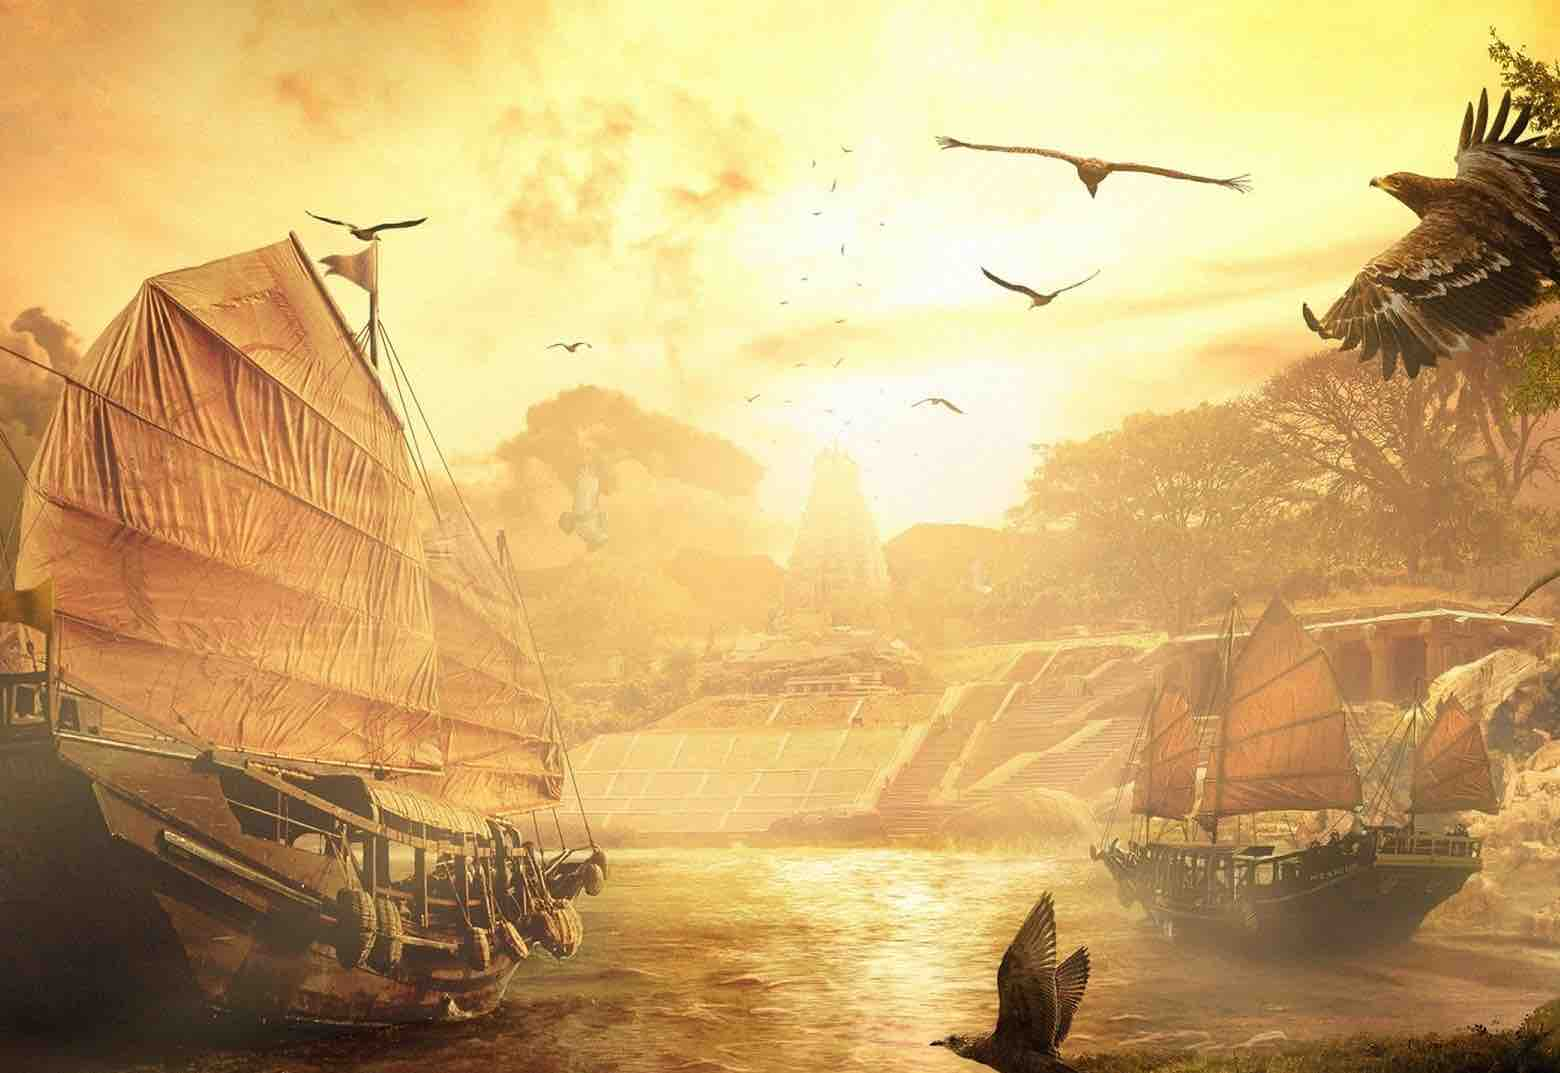
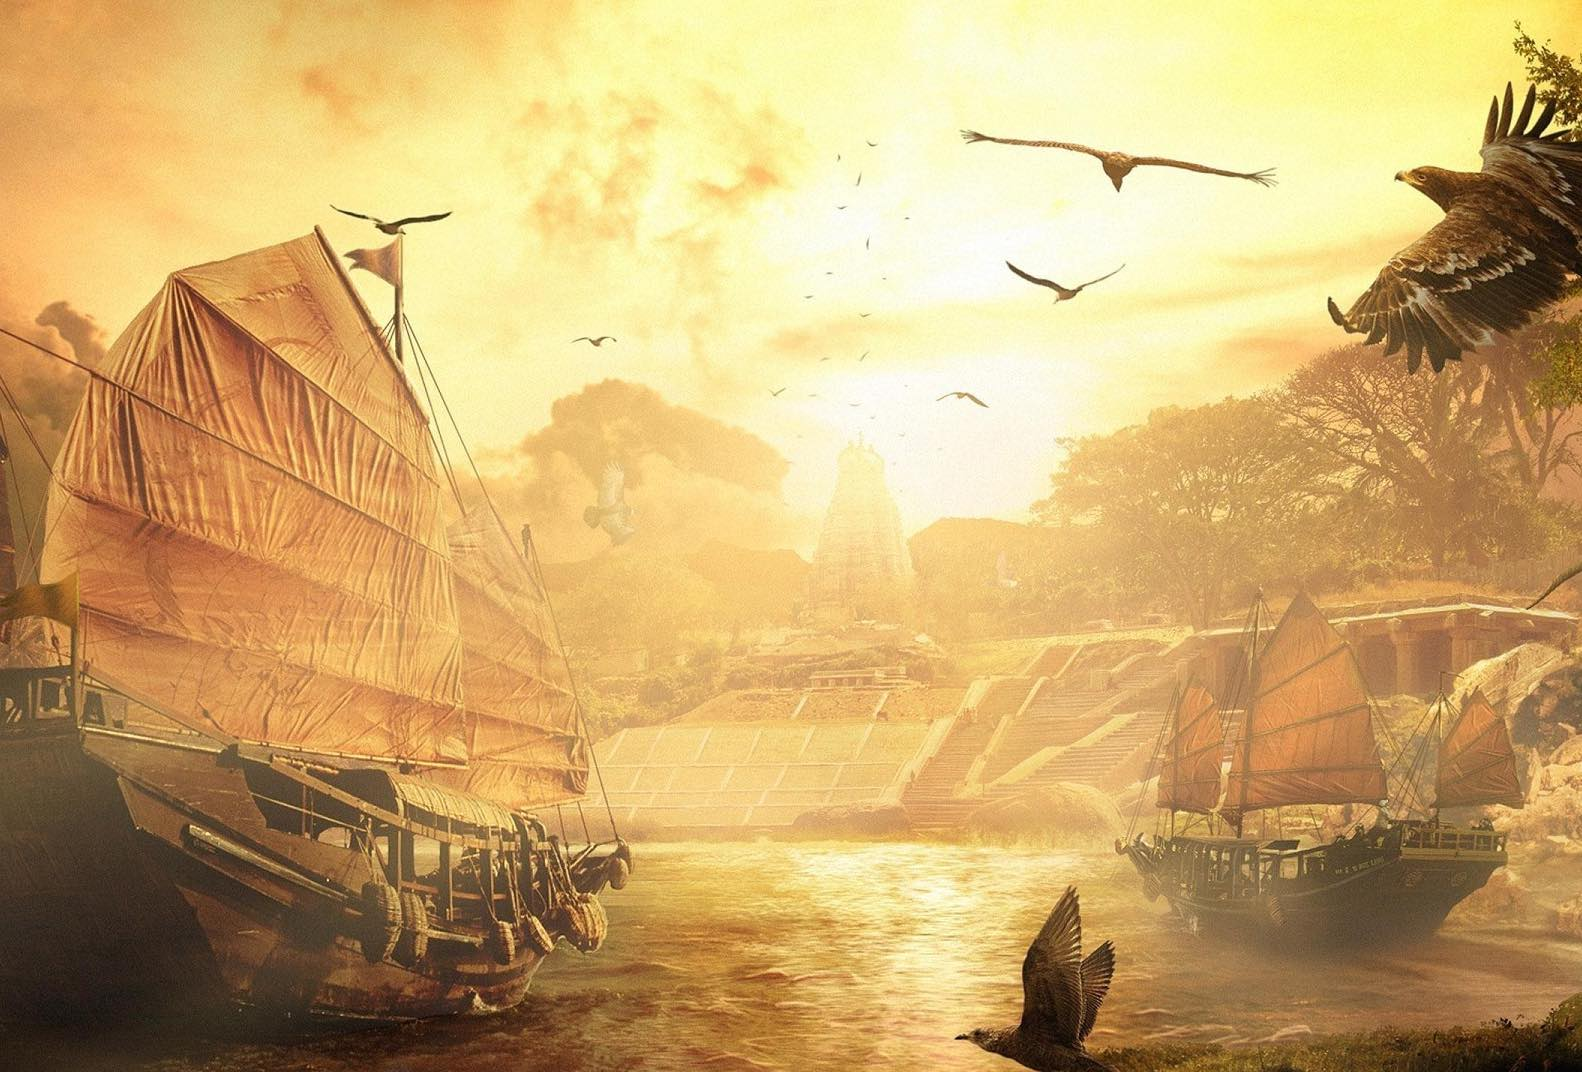
Removed schedule, font/color changes

diff --git a/index.html b/index.html
@@ -52,15 +52,15 @@
                                     <div class="eventSubMenuItem">B Quiz</div>
                                     <div class="eventSubMenuItem">Best Managers</div>
                                     <div class="eventSubMenuItem">Enterpreneurship</div>
-									<div class="eventSubMenuItem">General Management</div>
-									<div class="eventSubMenuItem">Finance</div>
-									<div class="eventSubMenuItem">Human Resources</div>
-									<div class="eventSubMenuItem">Operations</div>
-									<div class="eventSubMenuItem">Marketing</div>
+                  									<div class="eventSubMenuItem">General Management</div>
+                  									<div class="eventSubMenuItem">Finance</div>
+                  									<div class="eventSubMenuItem">Human Resources</div>
+                  									<div class="eventSubMenuItem">Operations</div>
+                  									<div class="eventSubMenuItem">Marketing</div>
                                 </div>
                             </li>
-                            <li class="scroll"><a href="#schedule">Schedule</a>
-                            </li>
+                            <!-- <li class="scroll"><a href="#schedule">Schedule</a>
+                            </li> -->
                             <li class="scroll"><a href="#sponsor">Sponsors</a>
                             </li>
                             <li class="scroll"><a href="#contact">Contact</a>
@@ -90,9 +90,8 @@
                         <h4>Presents</h4>
                          <img class="ximera-logo" src="images/ximera-logo.png" alt="XIMERA 2015">
                       <div class="registrationInfo">
-                        <h4>6
-                            <sup>th</sup>
-                            <sub>to</sub> 7 <sup>th</sup> Nov</h4>
+                        <h2>6<sup>th</sup>
+                            <sub> & </sub>7<sup>th </sup>Nov</h2>
                         <a href="https://bluestreaklabs.typeform.com/to/KQUJof" target="_blank">Registration<i class="fa fa-angle-right"></i></a>
                         </div>
                     </div>
@@ -110,7 +109,7 @@
         </div>
         </div>
     </section>
-    <section id="schedule" class="text-center section-padding" id="responsive">
+    <!-- <section id="schedule" class="text-center section-padding" id="responsive">
         <div class="container-schedule container wow animated fadeInDown animated" data-wow-duration="1s" data-wow-delay="1s">
             <div class="row">
                 <div class="align-center wow animated fadeInLeft">
@@ -187,7 +186,6 @@
                                 <hr>
                             </div>
                         </div>
-                        <!--CONTAINER ENDS-->
                     </section>
                     <section id="section-2">
                       <div class="container">
@@ -249,11 +247,9 @@
                               <hr>
                           </div>
                       </div>
-                <!-- /content -->
             </div>
-            <!-- /tabs -->
         </div>
-    </section>
+    </section> -->
     <section id="sponsor">
         <div id="sponsers" class="ignite-cta text-center section-padding">
             <div class="container">

diff --git a/js/main.js b/js/main.js
@@ -1,39 +1,38 @@
 jQuery(function($) {
-    'use strict',
+  'use strict',
 
-   	new CBPFWTabs( document.getElementById( 'tabs-ui' ) );
-    //Scroll Menu
+  // 	new CBPFWTabs( document.getElementById( 'tabs-ui' ) );
+  //Scroll Menu
 
-    function menuToggle() {
-        var windowWidth = $(window).width();
+  (function menuToggle() {
+    var windowWidth = $(window).width();
 
-        if (windowWidth > 767) {
-            $(window).on('scroll', function() {
-                if ($(window).scrollTop() > 405) {
-                    $('.main-nav').addClass('fixed-menu animated slideInDown');
-                } else {
-                    $('.main-nav').removeClass('fixed-menu animated slideInDown');
-                }
-            });
+    if (windowWidth > 767) {
+      $(window).on('scroll', function() {
+        if ($(window).scrollTop() > 405) {
+          $('.main-nav').addClass('fixed-menu animated slideInDown');
         } else {
-            $('.main-nav').addClass('fixed-menu animated slideInDown');
+          $('.main-nav').removeClass(
+            'fixed-menu animated slideInDown');
         }
+      });
+    } else {
+      $('.main-nav').addClass('fixed-menu animated slideInDown');
     }
+  })();
 
+  $(window).resize(function() {
     menuToggle();
+  });
 
-    $(window).resize(function() {
-        menuToggle();
-    });
-
-    $('.main-nav ul').onePageNav({
-        currentClass: 'active',
-        changeHash: false,
-        scrollSpeed: 900,
-        scrollOffset: 0,
-        scrollThreshold: 0.3,
-        filter: ':not(.no-scroll)'
-    });
+  $('.main-nav ul').onePageNav({
+    currentClass: 'active',
+    changeHash: false,
+    scrollSpeed: 900,
+    scrollOffset: 0,
+    scrollThreshold: 0.3,
+    filter: ':not(.no-scroll)'
+  });
 
 });
 
@@ -41,31 +40,31 @@ jQuery(function($) {
 // Google Map Customization
 (function() {
 
-    var map;
+  var map;
 
-    map = new GMaps({
-        el: '#gmap',
-        lat: 12.8483482,
-        lng: 77.674908,
-        scrollwheel: false,
-        zoom: 16,
-        zoomControl: false,
-        panControl: false,
-        streetViewControl: false,
-        mapTypeControl: false,
-        overviewMapControl: false,
-        clickable: false
-    });
+  map = new GMaps({
+    el: '#gmap',
+    lat: 12.8483482,
+    lng: 77.674908,
+    scrollwheel: false,
+    zoom: 16,
+    zoomControl: false,
+    panControl: false,
+    streetViewControl: false,
+    mapTypeControl: false,
+    overviewMapControl: false,
+    clickable: false
+  });
 
-    var image = 'images/pin.png';
-    map.addMarker({
-        lat: 12.8483482,
-        lng: 77.674908,
-        icon: image,
-        animation: google.maps.Animation.DROP,
-        verticalAlign: 'bottom',
-        horizontalAlign: 'center',
-        backgroundColor: '#C34C39',
-    });
+  var image = 'images/pin.png';
+  map.addMarker({
+    lat: 12.8483482,
+    lng: 77.674908,
+    icon: image,
+    animation: google.maps.Animation.DROP,
+    verticalAlign: 'bottom',
+    horizontalAlign: 'center',
+    backgroundColor: '#C34C39',
+  });
 
 }());

diff --git a/css/main.css b/css/main.css
@@ -190,15 +190,10 @@ sub{
 }
 #main-slider img {
     width: 100%;
-    -webkit-filter: blur(5px) grayscale(0.6);
-    -moz-filter: blur(5px) grayscale(0.6);
-    -ms-filter: blur(5px) grayscale(0.6);
-    filter: blur(5px) grayscale(0.6);
 }
 #main-slider .carousel-caption {
-    opacity: 0.8;
     color: #fff;
-    top: 10%;
+    top: 11%;
 }
 #main-slider .carousel-caption h2 {
     font-size: 34px;
@@ -207,19 +202,16 @@ sub{
     text-shadow: 0 1px 2px white;
 }
 #main-slider .carousel-caption h4 {
+  text-shadow: none;
   font-size: 28px;
-  font-family: rq;
   color: maroon;
+  font-family: fantasy;
 }
 #main-slider .carousel-caption a {
   font-size: 30px;
   font-family: bf;
   color: rgba(255, 255, 255, 0.9);
   text-shadow: 1px 1px 15px black;
-}
-#main-slider .carousel-caption a:hover {
-  color: rgba(226, 152, 37, 0.9);
-text-shadow: 1px 1px 15px white;
 }
 #main-slider .carousel-caption a:hover i {
     margin-left: 35px
@@ -282,10 +274,11 @@ text-shadow: 1px 1px 15px white;
 }
 
 #eventsSubMenu{
-    top: 55px;
+    top: 35px;
     position: fixed;
     padding-top: 10px;
     display: none;
+    z-index: 100;
 }
 
 #eventsSubMenu:hover,
@@ -294,13 +287,21 @@ text-shadow: 1px 1px 15px white;
 }
 .eventSubMenuItem{
     padding: 10px;
-    width: 150px;
-    background-color: white;
-    color: black;
+    width: 180px;
+    background-color: rgb(254, 251, 193);
+    color: #B22222;
+    box-shadow: 1px 2px 3px rgba(0, 0, 0, 0.38);
 }
 .eventSubMenuItem:hover{
-    background-color: gray;
+    background-color: #B10303;
     color: white;
+}
+.eventSubMenuItem:last-child{
+  border-bottom-left-radius: 10px;
+  border-bottom-right-radius: 10px;
+}
+.eventSubMenuItem:first-child{
+  border-top-right-radius: 10px;
 }
 #events .arrow{
     color: black;
@@ -628,14 +629,11 @@ text-shadow: 1px 1px 15px white;
 }
 
 #main-slider img.ximera-logo {
-        width: 300px;
+    width: 250px;
     margin: 0 auto;
-     -webkit-filter: none;
-    -moz-filter: none;
-    -ms-filter: none;
-    filter: none;
+    margin-top: -20px;
 }
 
 .registrationInfo {
-
+  margin-top: -20px;
 }
